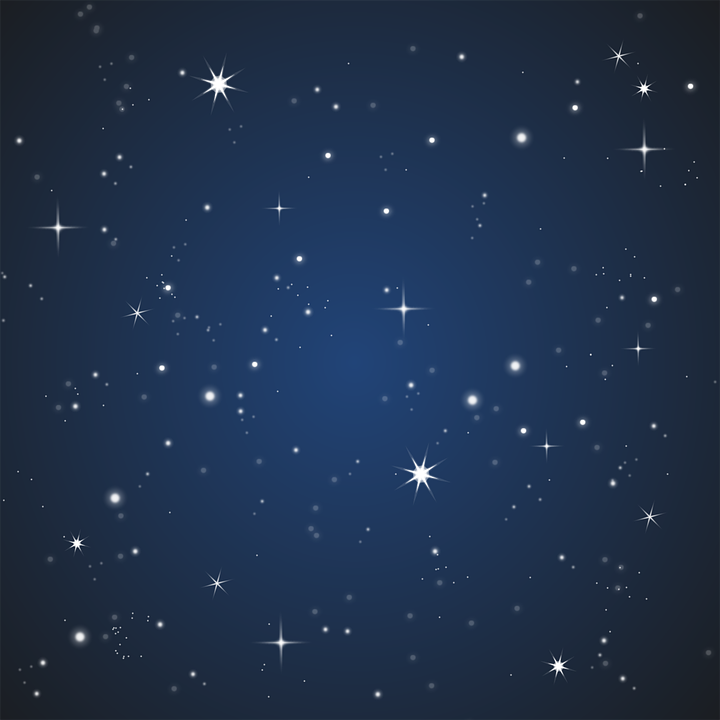
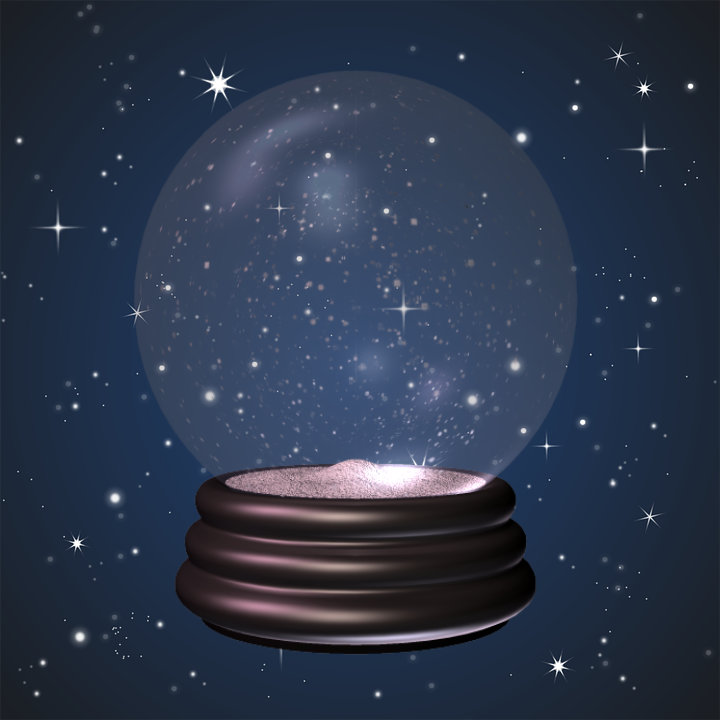
Update background

Changed region(s): [[0.1833, 0.0917, 0.7944, 0.9167], [0.7028, 0.3667, 0.7333, 0.3972], [0.2139, 0.4583, 0.2444, 0.4889]]

diff --git a/assets/css/style.css b/assets/css/style.css
@@ -4,16 +4,17 @@
 }
 
 #container {
-    background-image: url("../images/stars.png"), url("..images/crystal_ball.png");
-    background-position: center, center;
-    background-repeat: no-repeat, no-repeat;
-    padding: 225px;
+    background-image: url("../images/stars.png");
+    background-position: center;
+    background-repeat: no-repeat;
+    padding: 250px;
 }
 
 h1  {
     font-family: 'Kavivanar', cursive;
     font-size: 40px;
-    margin-bottom: 0px;
+    margin-top: -125px;
+    margin-bottom: 25px;
 }
 
 body {
